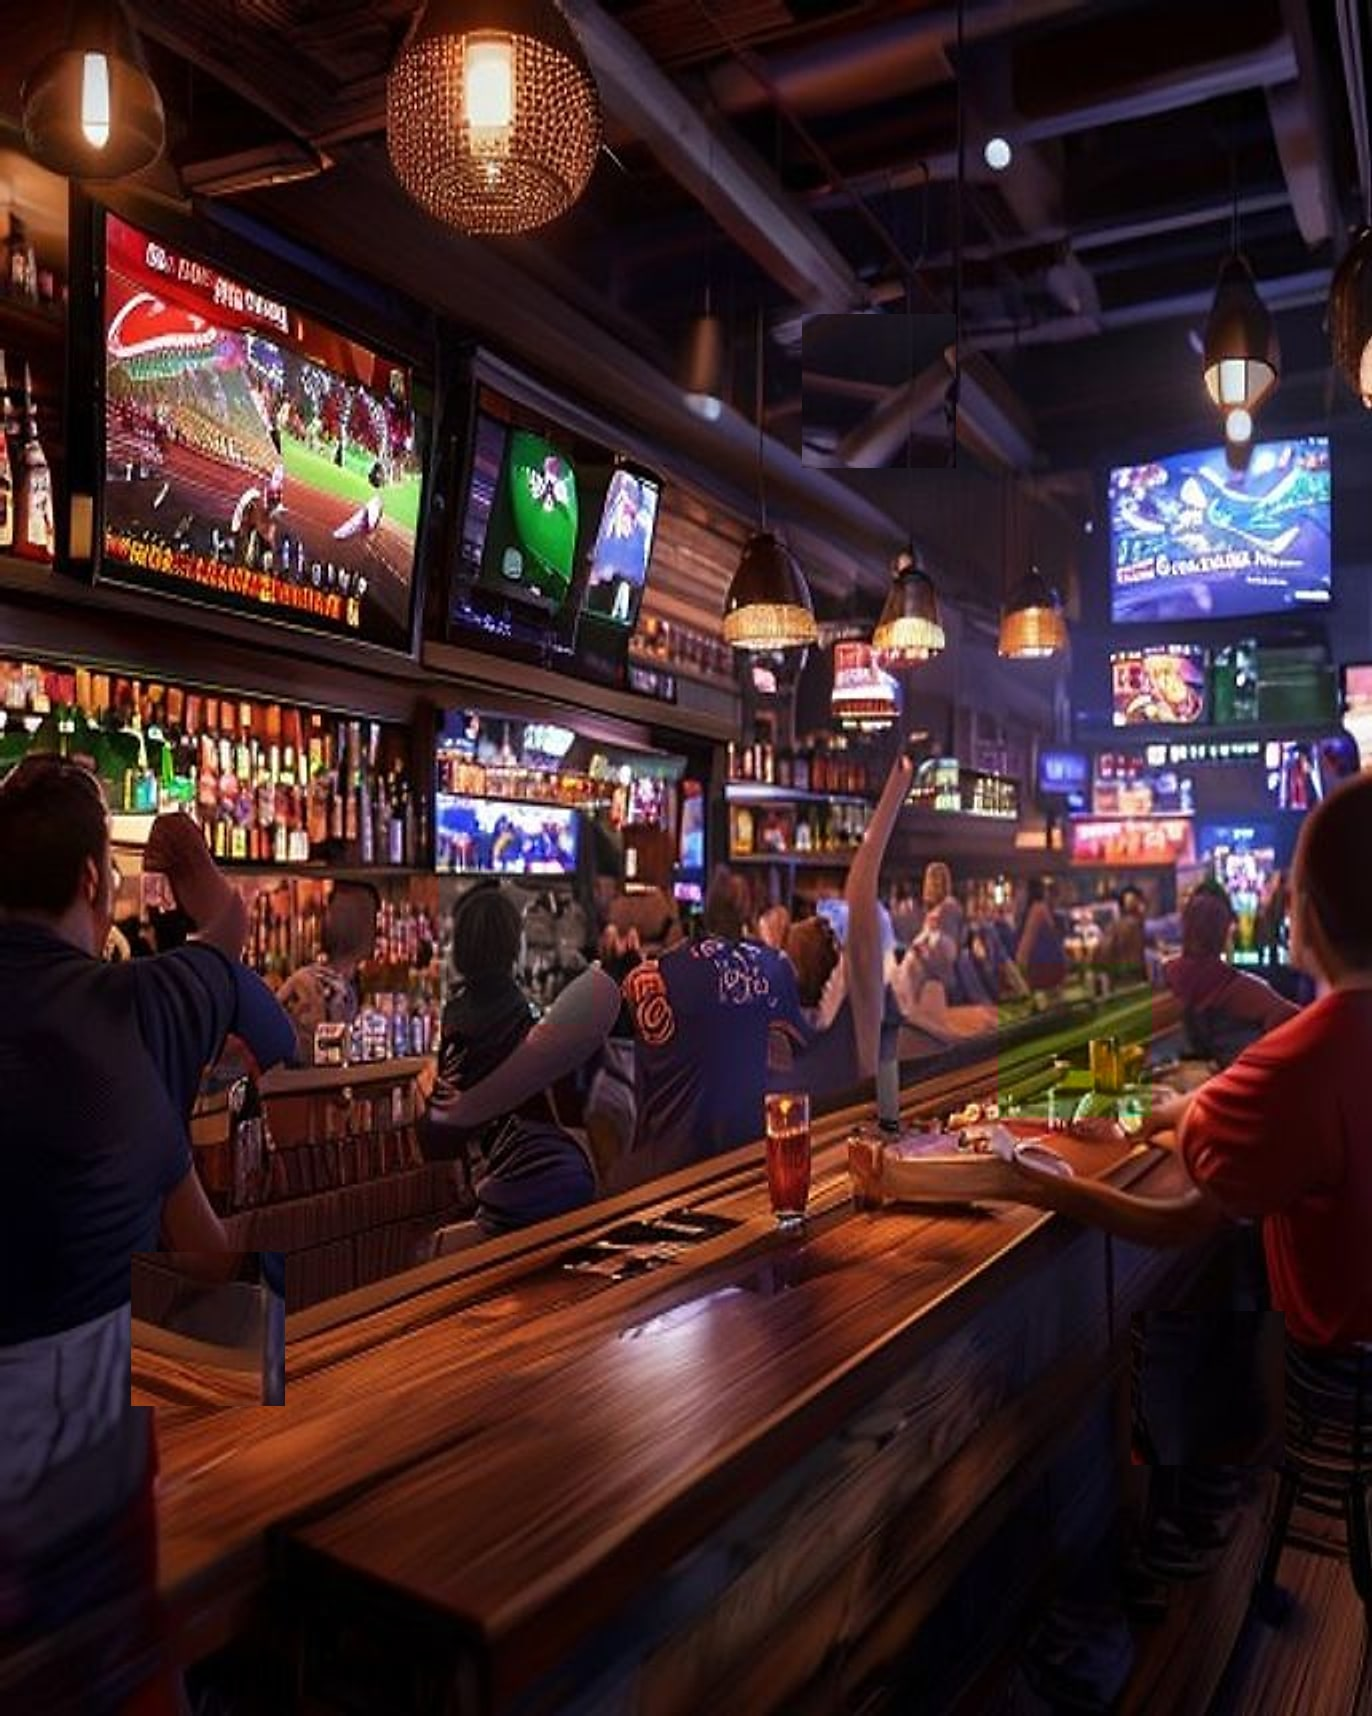
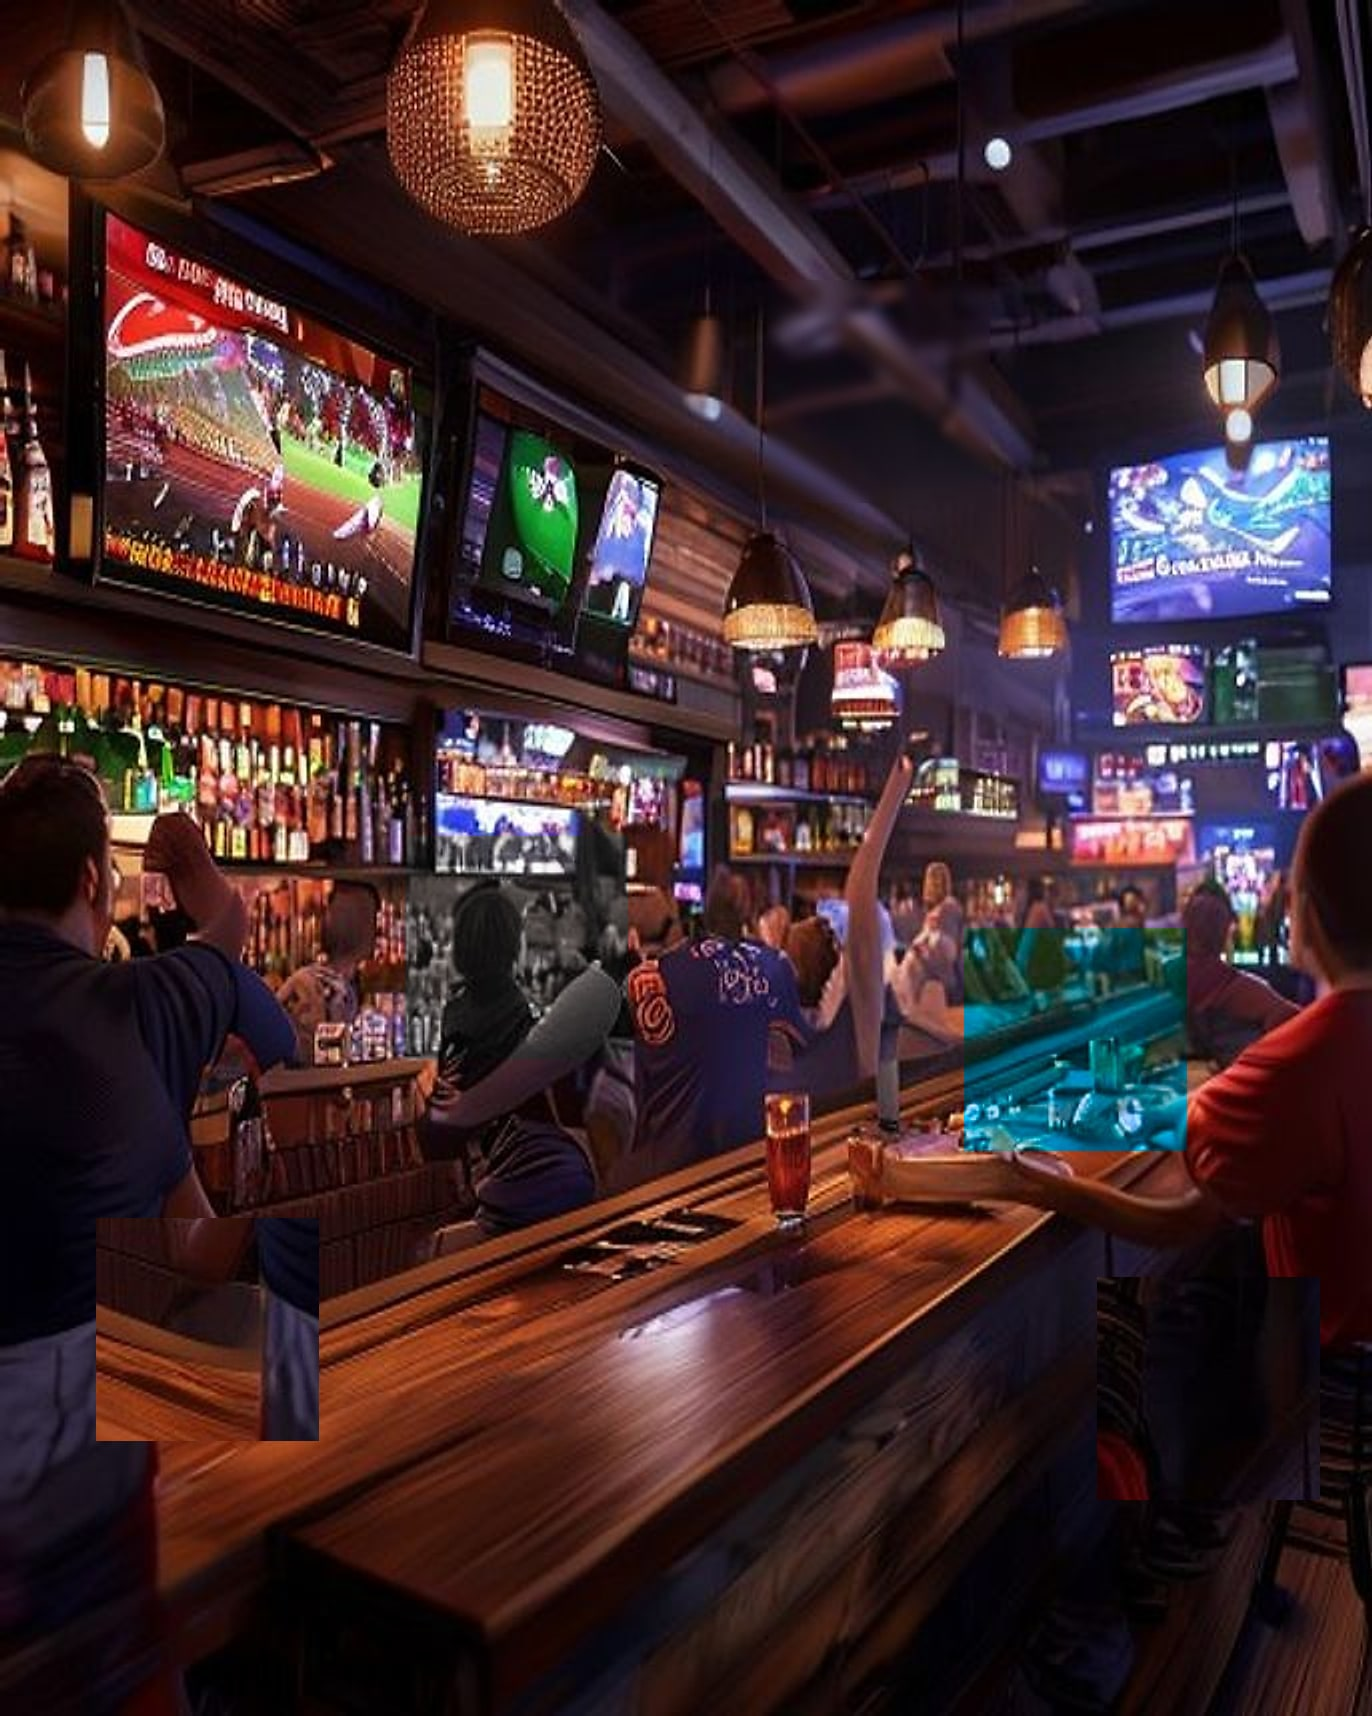
Photo Hunt: stronger distortions, bigger patches
Previous values were too subtle on uniform texture areas. Dialing up:

- Patch size 9% → 13% of longer edge (covers more varied content)
- Hue shift 60° → 180° (full color inversion, not a gentle nudge)
- Saturation 0.35 → 0.10 (near-grayscale, visible drain)
- Replace vertical flip with blur(6) — out-of-focus spots are very
  findable in a sharp scene without being arcade-obvious
- Hit radius 0.08 → 0.10 to match larger patch

Goal: findable with a careful 20-30s scan, not "spotted in 3 seconds"
like the bright stickers, not "impossible" like the prior subtle pass.

diff --git a/scripts/generate-pair-pollinations.ts b/scripts/generate-pair-pollinations.ts
@@ -72,17 +72,19 @@ async function upscaleAndSharpen(input: Buffer): Promise<Buffer> {
     .toBuffer();
 }
 
-// Subtle, photoreal distortions. Each one extracts a small patch from the
-// scene at a hotspot location, applies a natural-looking transformation,
-// and composites it back. The change is *of* the scene, not on top of it —
-// so it blends in instead of screaming "I'm a sticker".
-type Distortion = 'flop' | 'flip' | 'rotate180' | 'hueShift' | 'desaturate';
+// Photoreal patch distortions. Each one extracts a small patch from the
+// scene at a hotspot location, applies a transformation strong enough to
+// be findable on a varied background, and composites it back. The change
+// is *of* the scene, not on top of it — but the transformation is now
+// large enough to read clearly (the previous values were too subtle and
+// got lost on uniform textures).
+type Distortion = 'flop' | 'rotate180' | 'hueInvert' | 'grayscale' | 'blur';
 const DISTORTIONS: { kind: Distortion; label: string }[] = [
   { kind: 'flop', label: 'mirrored patch' },
   { kind: 'rotate180', label: 'rotated patch' },
-  { kind: 'hueShift', label: 'hue-shifted patch' },
-  { kind: 'desaturate', label: 'desaturated patch' },
-  { kind: 'flip', label: 'vertically flipped patch' },
+  { kind: 'hueInvert', label: 'inverted colors' },
+  { kind: 'grayscale', label: 'desaturated patch' },
+  { kind: 'blur', label: 'blurred patch' },
 ];
 
 /**
@@ -135,10 +137,9 @@ async function applyDistortions(
   const meta = await sharp(baseImg).metadata();
   const w = meta.width!;
   const h = meta.height!;
-  // Patch size: ~9% of the longer edge. Big enough that asymmetric content
-  // in the scene (faces, signs, props) gets a visible transformation;
-  // small enough that the diff feels local, not regional.
-  const patchSize = Math.round(Math.max(w, h) * 0.09);
+  // Patch size: ~13% of the longer edge. Big enough that the distortion
+  // is visible even on uniform textures (where a 9% patch would blend in).
+  const patchSize = Math.round(Math.max(w, h) * 0.13);
 
   const composites = await Promise.all(
     positions.map(async (pos, i) => {
@@ -153,19 +154,24 @@ async function applyDistortions(
         case 'flop':
           patch = patch.flop();
           break;
-        case 'flip':
-          patch = patch.flip();
-          break;
         case 'rotate180':
           patch = patch.rotate(180);
           break;
-        case 'hueShift':
-          // 60° hue rotation — substantial enough to be visible in colorful
-          // scenes, but doesn't change shape/structure so it stays photoreal.
-          patch = patch.modulate({ hue: 60 });
+        case 'hueInvert':
+          // 180° hue rotation = the opposite of every color in the patch.
+          // Photoreal but immediately wrong-looking to a careful scanner.
+          patch = patch.modulate({ hue: 180 });
           break;
-        case 'desaturate':
-          patch = patch.modulate({ saturation: 0.35 });
+        case 'grayscale':
+          // Saturation 0.1 = nearly grayscale. Color drains from this
+          // patch while the rest of the scene stays vivid.
+          patch = patch.modulate({ saturation: 0.1 });
+          break;
+        case 'blur':
+          // Substantial gaussian blur — turns one part of an otherwise
+          // sharp image into a soft, out-of-focus spot. Easy to spot
+          // on a careful scan, not arcade-obvious.
+          patch = patch.blur(6);
           break;
       }
 
@@ -184,9 +190,9 @@ async function applyDistortions(
     id: `h${i + 1}`,
     x: pos.x,
     y: pos.y,
-    // Hit radius covers the full patch (~9% wide → 0.045 half-width)
-    // plus generous tap forgiveness.
-    r: 0.08,
+    // Hit radius covers the full patch (13% wide → 0.065 half-width) with
+    // tap forgiveness around it.
+    r: 0.10,
     hint: DISTORTIONS[i % DISTORTIONS.length].label,
   }));
 